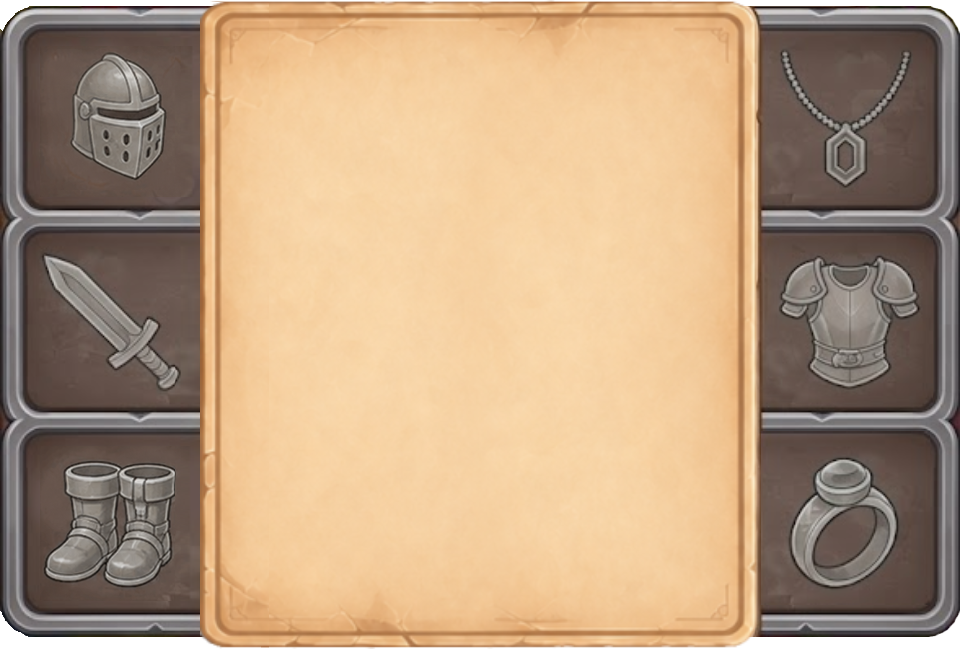
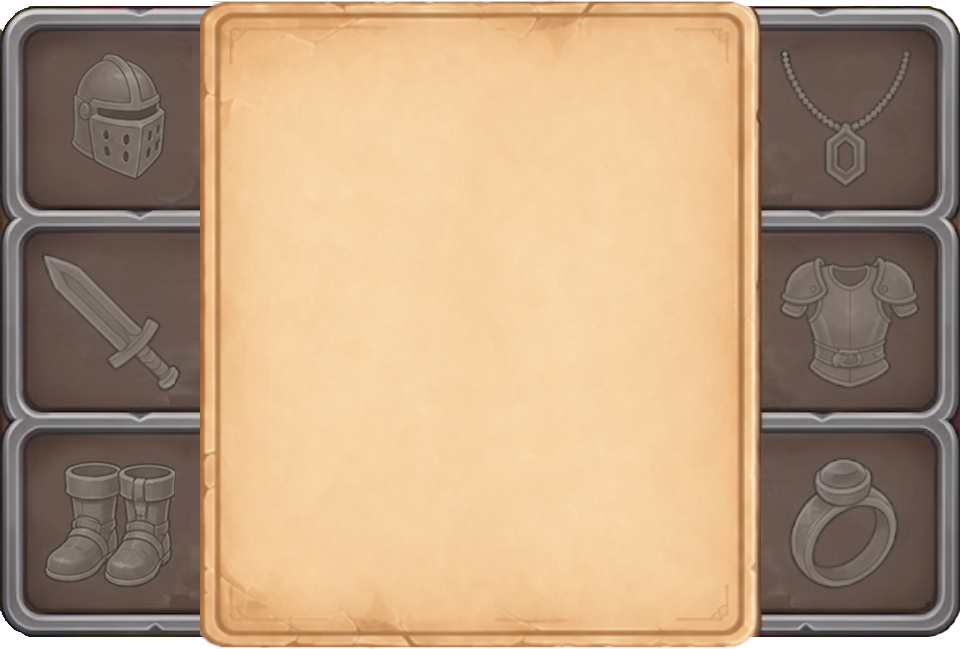
fix character panel

diff --git a/src/view/component/house/CharacterPanel.ts b/src/view/component/house/CharacterPanel.ts
@@ -23,6 +23,8 @@ interface SkillRowView {
 }
 
 interface SlotView {
+    equippedBg: Phaser.Sprite;
+    highlight: Phaser.Sprite;
     icon: Phaser.Sprite;
     hitArea: Phaser.Button;
     infoButton: Phaser.Button;
@@ -32,6 +34,10 @@ export default class CharacterPanel extends ClosablePanel {
     private static readonly PSD_WIDTH = 960;
     private static readonly PSD_HEIGHT = 1669;
     private static readonly MAX_VISIBLE_SKILLS = 3;
+    private static readonly ACTION_BUTTON_HIDDEN_OFFSET = 240;
+    private static readonly ACTION_BUTTON_OPEN_DELAY = 220;
+    private static readonly ACTION_BUTTON_OPEN_DURATION = 260;
+    private static readonly ACTION_BUTTON_CLOSE_DURATION = 120;
 
     private static readonly SKILL_ROWS = [
         { iconX: 551, iconY: 410.5, valueX: 663.5, valueY: 409.5, infoX: 774.5, infoY: 408 },
@@ -49,6 +55,7 @@ export default class CharacterPanel extends ClosablePanel {
     ];
 
     private screen: HouseScreen;
+    private panelScale: number;
     private panelHitArea: Phaser.Sprite;
     private portrait: Phaser.Sprite;
     private portraitHitArea: Phaser.Button;
@@ -63,6 +70,8 @@ export default class CharacterPanel extends ClosablePanel {
     private shopButtonLabel: Label;
     private closeButton: Phaser.Button;
     private closeButtonLabel: Label;
+    private backpackButtonShownY: number;
+    private shopButtonShownY: number;
     private upgradeButton: Phaser.Button;
     private upgradeButtonLabel: Label;
     private upgradeButtonGemIcon: Phaser.Sprite;
@@ -82,6 +91,7 @@ export default class CharacterPanel extends ClosablePanel {
             Math.min(1, game.width / CharacterPanel.PSD_WIDTH, game.height / CharacterPanel.PSD_HEIGHT)
         );
         this.screen = screen;
+        this.panelScale = Math.min(1, game.width / CharacterPanel.PSD_WIDTH, game.height / CharacterPanel.PSD_HEIGHT);
         this.visible = false;
         this.fixedToCamera = true;
 
@@ -90,13 +100,23 @@ export default class CharacterPanel extends ClosablePanel {
 
     protected onShow(): void {
         this.openingShop = false;
+        this.prepareBottomActionButtonsForShow();
         this.syncSelectedCharacter();
         this.refreshStaticTexts();
         this.refreshView();
         this.screen.hideUI(0, true);
+        this.bringDetachedActionButtonsToTop();
+        this.game.time.events.add(140, () => {
+            if (this.visible) {
+                this.bringDetachedActionButtonsToTop();
+            }
+        });
+        this.animateBottomActionButtonsIn();
     }
 
     protected onClose(): void {
+        this.animateBottomActionButtonsOut();
+
         if (this.openingShop) {
             this.game.time.events.add(360, () => {
                 let shopPanel = new ShopPanel(this.game, this.screen, undefined, 'items');
@@ -211,6 +231,14 @@ export default class CharacterPanel extends ClosablePanel {
         this.upgradeButton.addChild(this.upgradeButtonGemIcon);
 
         CharacterPanel.SLOT_LAYOUT.forEach(layout => {
+            const equippedBg = this.attachSprite("characterEquippedBg", layout.slotId + "EquippedBg");
+            this.placeAtPsdCenter(equippedBg, layout.x, layout.y);
+            equippedBg.visible = false;
+
+            const highlight = this.attachSprite("characterArtifactHighlight", layout.slotId + "Highlight");
+            this.placeAtPsdCenter(highlight, layout.x, layout.y);
+            highlight.visible = false;
+
             const icon = this.attachSprite("shopItem1", layout.slotId + "Icon");
             this.placeAtPsdCenter(icon, layout.x, layout.y);
             icon.visible = false;
@@ -229,27 +257,32 @@ export default class CharacterPanel extends ClosablePanel {
             infoButton.inputEnabled = false;
 
             this.slotViews[layout.slotId] = {
+                equippedBg: equippedBg,
+                highlight: highlight,
                 icon: icon,
                 hitArea: hitArea,
                 infoButton: infoButton
             };
         });
 
-        this.backpackButton = this.attachButton("characterBackpackButton", () => this.showBackpackInfo(), "backpackButton");
-        this.placeAtPsdCenter(this.backpackButton, 120.5, 1559);
+        this.backpackButton = this.createDetachedActionButton("characterBackpackButton", () => this.showBackpackInfo(), "backpackButton");
+        this.placeDetachedActionButtonAtPsdCenter(this.backpackButton, 120.5, 1559);
         this.backpackButtonLabel = this.addButtonText(this.backpackButton, "", {
             font: "bold 30px Gilroy",
             fill: "#fff1d7",
             align: "center"
         }, 58);
+        this.backpackButtonShownY = this.backpackButton.cameraOffset.y;
 
-        this.shopButton = this.attachButton("characterShopButton", () => this.openShop(), "shopButton");
-        this.placeAtPsdCenter(this.shopButton, 842.5, 1554.5);
+        this.shopButton = this.createDetachedActionButton("characterShopButton", () => this.openShop(), "shopButton");
+        this.placeDetachedActionButtonAtPsdCenter(this.shopButton, 842.5, 1554.5);
         this.shopButtonLabel = this.addButtonText(this.shopButton, "", {
             font: "bold 30px Gilroy",
             fill: "#fff1d7",
             align: "center"
         }, 62);
+        this.shopButtonShownY = this.shopButton.cameraOffset.y;
+        this.setBottomActionButtonsHiddenState();
 
         this.closeButton = this.attachButton("characterCloseButton", () => this.close(), "closeButton");
         this.placeAtPsdCenter(this.closeButton, 481.5, 1549.5);
@@ -258,6 +291,118 @@ export default class CharacterPanel extends ClosablePanel {
             fill: "#efffdd",
             align: "center"
         }, -1);
+    }
+
+    private prepareBottomActionButtonsForShow(): void {
+        this.stopBottomActionButtonTweens();
+        this.setBottomActionButtonsVisible(true);
+
+        if (this.openingWithoutAnimation) {
+            this.setBottomActionButtonsShownState();
+            this.setBottomActionButtonsInteractive(true);
+            return;
+        }
+
+        this.setBottomActionButtonsInteractive(false);
+        this.setBottomActionButtonsHiddenState();
+    }
+
+    private animateBottomActionButtonsIn(): void {
+        if (this.openingWithoutAnimation) {
+            this.setBottomActionButtonsShownState();
+            this.setBottomActionButtonsInteractive(true);
+            return;
+        }
+
+        this.game.add.tween(this.backpackButton).to({
+            alpha: 1
+        }, CharacterPanel.ACTION_BUTTON_OPEN_DURATION, Phaser.Easing.Back.Out, true, CharacterPanel.ACTION_BUTTON_OPEN_DELAY);
+        this.game.add.tween(this.backpackButton.cameraOffset).to({
+            y: this.backpackButtonShownY
+        }, CharacterPanel.ACTION_BUTTON_OPEN_DURATION, Phaser.Easing.Back.Out, true, CharacterPanel.ACTION_BUTTON_OPEN_DELAY);
+
+        this.game.add.tween(this.shopButton).to({
+            alpha: 1
+        }, CharacterPanel.ACTION_BUTTON_OPEN_DURATION, Phaser.Easing.Back.Out, true, CharacterPanel.ACTION_BUTTON_OPEN_DELAY + 40);
+        this.game.add.tween(this.shopButton.cameraOffset).to({
+            y: this.shopButtonShownY
+        }, CharacterPanel.ACTION_BUTTON_OPEN_DURATION, Phaser.Easing.Back.Out, true, CharacterPanel.ACTION_BUTTON_OPEN_DELAY + 40);
+
+        this.game.time.events.add(CharacterPanel.ACTION_BUTTON_OPEN_DELAY + CharacterPanel.ACTION_BUTTON_OPEN_DURATION + 50, () => {
+            if (this.visible && this.opened) {
+                this.setBottomActionButtonsInteractive(true);
+            }
+        });
+    }
+
+    private animateBottomActionButtonsOut(): void {
+        this.stopBottomActionButtonTweens();
+        this.setBottomActionButtonsInteractive(false);
+
+        this.game.add.tween(this.backpackButton).to({
+            alpha: 0
+        }, CharacterPanel.ACTION_BUTTON_CLOSE_DURATION, Phaser.Easing.Quadratic.In, true);
+        this.game.add.tween(this.backpackButton.cameraOffset).to({
+            y: this.backpackButtonShownY + CharacterPanel.ACTION_BUTTON_HIDDEN_OFFSET
+        }, CharacterPanel.ACTION_BUTTON_CLOSE_DURATION, Phaser.Easing.Quadratic.In, true);
+
+        this.game.add.tween(this.shopButton).to({
+            alpha: 0
+        }, CharacterPanel.ACTION_BUTTON_CLOSE_DURATION, Phaser.Easing.Quadratic.In, true);
+        this.game.add.tween(this.shopButton.cameraOffset).to({
+            y: this.shopButtonShownY + CharacterPanel.ACTION_BUTTON_HIDDEN_OFFSET
+        }, CharacterPanel.ACTION_BUTTON_CLOSE_DURATION, Phaser.Easing.Quadratic.In, true);
+
+        this.game.time.events.add(CharacterPanel.ACTION_BUTTON_CLOSE_DURATION + 20, () => {
+            if (!this.opened) {
+                this.setBottomActionButtonsVisible(false);
+            }
+        });
+    }
+
+    private setBottomActionButtonsShownState(): void {
+        this.backpackButton.cameraOffset.y = this.backpackButtonShownY;
+        this.backpackButton.alpha = 1;
+        this.shopButton.cameraOffset.y = this.shopButtonShownY;
+        this.shopButton.alpha = 1;
+    }
+
+    private setBottomActionButtonsHiddenState(): void {
+        this.backpackButton.cameraOffset.y = this.backpackButtonShownY + CharacterPanel.ACTION_BUTTON_HIDDEN_OFFSET;
+        this.backpackButton.alpha = 0;
+        this.shopButton.cameraOffset.y = this.shopButtonShownY + CharacterPanel.ACTION_BUTTON_HIDDEN_OFFSET;
+        this.shopButton.alpha = 0;
+    }
+
+    private setBottomActionButtonsVisible(visible: boolean): void {
+        this.backpackButton.visible = visible;
+        this.shopButton.visible = visible;
+    }
+
+    private setBottomActionButtonsInteractive(enabled: boolean): void {
+        this.backpackButton.inputEnabled = enabled;
+        this.shopButton.inputEnabled = enabled;
+    }
+
+    private stopBottomActionButtonTweens(): void {
+        this.game.tweens.removeFrom(this.backpackButton);
+        this.game.tweens.removeFrom(this.shopButton);
+        this.game.tweens.removeFrom(this.backpackButton.cameraOffset);
+        this.game.tweens.removeFrom(this.shopButton.cameraOffset);
+    }
+
+    private refreshSlotSelectionVisuals(): void {
+        CharacterPanel.SLOT_LAYOUT.forEach(layout => {
+            const slotView = this.slotViews[layout.slotId];
+            const hasArtifact = slotView.icon.visible;
+            slotView.equippedBg.visible = hasArtifact;
+            slotView.highlight.visible = hasArtifact && this.selectedArtifactSlot == layout.slotId;
+        });
+    }
+
+    private bringDetachedActionButtonsToTop(): void {
+        this.game.world.bringToTop(this.backpackButton);
+        this.game.world.bringToTop(this.shopButton);
     }
 
     private refreshStaticTexts(): void {
@@ -326,6 +471,8 @@ export default class CharacterPanel extends ClosablePanel {
             const slotView = this.slotViews[layout.slotId];
             const artifactEntry = user.getCharacterEquippedArtifact(character.id, layout.slotId);
             if (!artifactEntry) {
+                slotView.equippedBg.visible = false;
+                slotView.highlight.visible = false;
                 slotView.icon.visible = false;
                 slotView.hitArea.visible = false;
                 slotView.hitArea.inputEnabled = false;
@@ -336,6 +483,8 @@ export default class CharacterPanel extends ClosablePanel {
 
             const item = ShopArtifactItemsConfiguration.getById(artifactEntry.id);
             if (!item) {
+                slotView.equippedBg.visible = false;
+                slotView.highlight.visible = false;
                 slotView.icon.visible = false;
                 slotView.hitArea.visible = false;
                 slotView.hitArea.inputEnabled = false;
@@ -352,6 +501,7 @@ export default class CharacterPanel extends ClosablePanel {
             slotView.infoButton.visible = true;
             slotView.infoButton.inputEnabled = true;
         });
+        this.refreshSlotSelectionVisuals();
 
         const showArrows = characters.length > 1;
         this.arrowLeftButton.visible = showArrows;
@@ -403,6 +553,7 @@ export default class CharacterPanel extends ClosablePanel {
         const config = CharactersConfiguration.getById(character.id);
         this.selectedArtifactSlot = null;
         this.setUpgradeButtonVisible(false);
+        this.refreshSlotSelectionVisuals();
         this.contentTitle.text = config ? config.name : LocalizationService.get("ui.character.title", "Character");
         this.contentBody.text = config ? LocalizationService.get(config.descriptionText, config.descriptionText) : "";
     }
@@ -425,6 +576,7 @@ export default class CharacterPanel extends ClosablePanel {
 
         this.selectedArtifactSlot = null;
         this.setUpgradeButtonVisible(false);
+        this.refreshSlotSelectionVisuals();
         this.contentTitle.text = this.capitalize(LocalizationService.get(skillConfig.name));
         this.contentBody.text = [
             LocalizationService.get("ui.character.currentValue", "Current value: {value}", { value: skillValue.value }),
@@ -448,6 +600,7 @@ export default class CharacterPanel extends ClosablePanel {
         if (!artifactEntry) {
             this.selectedArtifactSlot = null;
             this.setUpgradeButtonVisible(false);
+            this.refreshSlotSelectionVisuals();
             this.contentTitle.text = this.getSlotName(slotId);
             this.contentBody.text = LocalizationService.get("ui.character.noArtifact", "No artifact equipped.");
             return;
@@ -455,6 +608,9 @@ export default class CharacterPanel extends ClosablePanel {
 
         const item = ShopArtifactItemsConfiguration.getById(artifactEntry.id);
         if (!item) {
+            this.selectedArtifactSlot = null;
+            this.setUpgradeButtonVisible(false);
+            this.refreshSlotSelectionVisuals();
             return;
         }
 
@@ -470,6 +626,7 @@ export default class CharacterPanel extends ClosablePanel {
             .filter(text => !!text);
 
         this.selectedArtifactSlot = slotId;
+        this.refreshSlotSelectionVisuals();
         this.contentTitle.text = LocalizationService.get(item.name);
         this.contentBody.text = [
             LocalizationService.get(item.descriptionText, ""),
@@ -489,6 +646,7 @@ export default class CharacterPanel extends ClosablePanel {
         const backpack = UserService.getUser().getArtifactBackpack();
         this.selectedArtifactSlot = null;
         this.setUpgradeButtonVisible(false);
+        this.refreshSlotSelectionVisuals();
         this.contentTitle.text = LocalizationService.get("ui.character.backpackTitle", "Backpack");
 
         if (backpack.length == 0) {
@@ -624,9 +782,29 @@ export default class CharacterPanel extends ClosablePanel {
         return label;
     }
 
+    private createDetachedActionButton(spriteId: string, callback, name?: string): Phaser.Button {
+        const button = SpriteUtils.createButton(this.game, 0, 0, spriteId, callback);
+        button.anchor.set(0.5);
+        button.name = name || spriteId;
+        button.fixedToCamera = true;
+        button.visible = false;
+        button.alpha = 0;
+        button.inputEnabled = false;
+        this.game.add.existing(button);
+        return button;
+    }
+
     private placeAtPsdCenter(displayObject: PIXI.DisplayObject, centerX: number, centerY: number): void {
         (<any>displayObject).x = this.psdX(centerX);
         (<any>displayObject).y = this.psdY(centerY);
+    }
+
+    private placeDetachedActionButtonAtPsdCenter(button: Phaser.Button, centerX: number, centerY: number): void {
+        button.scale.set(this.panelScale);
+        button.cameraOffset.set(
+            this.game.width / 2 + this.psdX(centerX) * this.panelScale,
+            this.game.height / 2 + this.psdY(centerY) * this.panelScale
+        );
     }
 
     private psdX(value: number): number {

diff --git a/src/view/screen/LoadingScreen.ts b/src/view/screen/LoadingScreen.ts
@@ -745,6 +745,8 @@ export default class LoadingScreen extends BaseScreen {
         this.loadImage('characterBackpackButton', 'assets/base/ui/character/backpack_button.png');
         this.loadImage('characterShopButton', 'assets/base/ui/character/shop_button.png');
         this.loadImage('characterCloseButton', 'assets/base/ui/character/close_button.png');
+        this.loadImage('characterEquippedBg', 'assets/base/ui/character/equipped_bg.png');
+        this.loadImage('characterArtifactHighlight', 'assets/base/ui/character/highlight.png');
         this.loadImage('characterSkillInfoButton', 'assets/base/ui/character/info_button1.png');
         this.loadImage('characterArtifactInfoButton', 'assets/base/ui/character/info_button_item.png');
         // Fallback for new shop art until it is repacked into base atlases.
@@ -770,6 +772,8 @@ export default class LoadingScreen extends BaseScreen {
         this.load.image('characterBackpackButton', 'assets/base/ui/character/backpack_button.png');
         this.load.image('characterShopButton', 'assets/base/ui/character/shop_button.png');
         this.load.image('characterCloseButton', 'assets/base/ui/character/close_button.png');
+        this.load.image('characterEquippedBg', 'assets/base/ui/character/equipped_bg.png');
+        this.load.image('characterArtifactHighlight', 'assets/base/ui/character/highlight.png');
         this.load.image('characterSkillInfoButton', 'assets/base/ui/character/info_button1.png');
         this.load.image('characterArtifactInfoButton', 'assets/base/ui/character/info_button_item.png');
 
